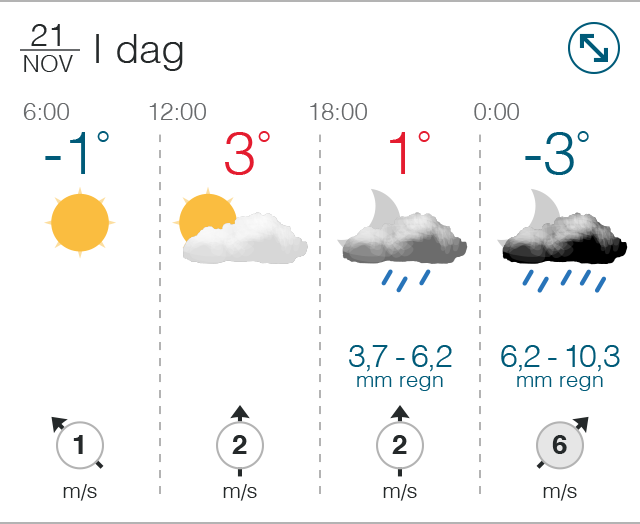
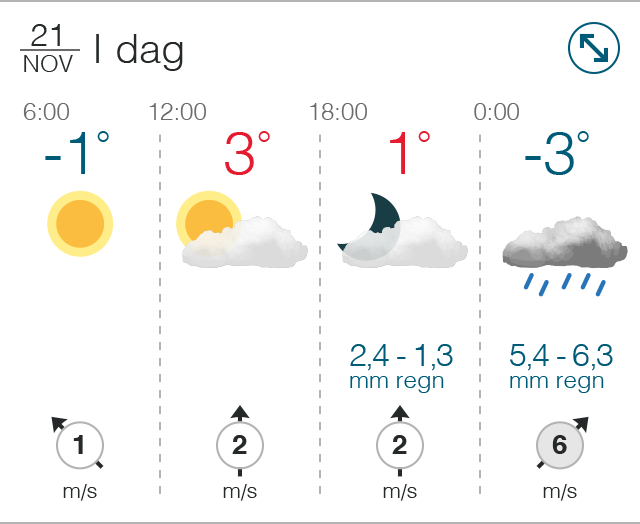
Updated sun symbols with 3D cloud version

diff --git a/symbolicons.html b/symbolicons.html
@@ -27,24 +27,17 @@
 	    	<div id="concept-prognosis" class="concept-holder">
 		    	
 		    	<div id="table-swap-container" style="margin-top: 20px;">
-			    	<img id="page-concept-view" src="images/clouddesign5.png"/>
+			    	<img id="page-concept-view" src="images/clouddesign1.png"/>
 			    </div>
 				<div class="weather-table" style="margin-top: 20px; width: 320px;">
-					<img height="380" width="1480" id="weatherlong-view" src="images/clouddesign6.png"/>
+					<img height="340" width="1480" id="weatherlong-view" src="images/clouddesign2.png"/>
 				</div>
 				
 		    	<div id="table-swap-container">
 			    	<img id="page-concept-view" src="images/clouddesign3.png"/>
 			    </div>
 				<div class="weather-table" style="margin-top: 20px; width: 320px;">
-					<img height="380" width="1480" id="weatherlong-view" src="images/clouddesign4.png"/>
-				</div>
-				
-				<div id="table-swap-container" style="margin-top: 20px;">
-			    	<img id="page-concept-view" src="images/clouddesign1.png"/>
-			    </div>
-				<div class="weather-table" style="margin-top: 20px; width: 320px;">
-					<img height="380" width="1480" id="weatherlong-view" src="images/clouddesign2.png"/>
+					<img height="340" width="1480" id="weatherlong-view" src="images/clouddesign4.png"/>
 				</div>
 				
 			</div>
